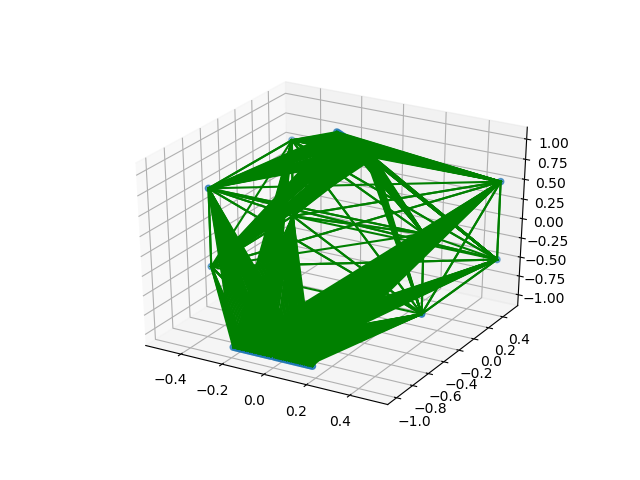
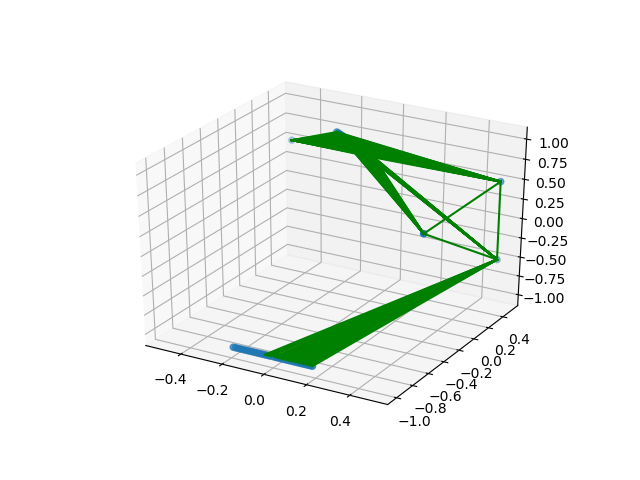
ready to trade live, with continuous evolution

Changed region(s): [[0.3125, 0.2812, 0.7812, 0.75]]

diff --git a/brain_trader.py b/brain_trader.py
@@ -26,15 +26,14 @@ from pureples.es_hyperneat.es_hyperneat_torch import ESNetwork
 key = ""
 secret = ""
 class LiveTrader:
-    params = {"initial_depth": 3,
-            "max_depth": 6,
-            "variance_threshold": 0.013,
-            "band_threshold": 0.013,
+    params = {"initial_depth": 2,
+            "max_depth": 4,
+            "variance_threshold": 0.0000013,
+            "band_threshold": 0.0000013,
             "iteration_level": 3,
-            "division_threshold": 0.013,
+            "division_threshold": 0.0000013,
             "max_weight": 5.0,
             "activation": "tanh"}
-
 
     # Config for CPPN.
     config = neat.config.Config(neat.genome.DefaultGenome, neat.reproduction.DefaultReproduction,
@@ -45,17 +44,26 @@ class LiveTrader:
         self.target_percent = target_percent
         self.ticker_len = ticker_len
         self.end_ts = datetime.now()+timedelta(seconds=(ticker_len*55))
-        file = open("es_trade_god_cppn_5day.pkl",'rb')
-        self.cppn = pickle.load(file)
-        file.close()
+        self.load_net()
         self.tickers = self.polo.returnTicker()
         self.sellCoins()
         self.bal = self.polo.returnBalances()
         self.set_target()
-        self.inputs = self.hs.hist_shaped.shape[0]*(self.hs.hist_shaped[0].shape[1]-1)
+        self.refresh_data()
+        self.inputs = self.hs.hist_shaped.shape[0]*(self.hs.hist_shaped[0].shape[1])
         self.outputs = self.hs.hist_shaped.shape[0]
-        self.multiplier = self.inputs/self.outputs
+        self.make_shapes()
+        self.leaf_names = []
+        for l in range(len(self.in_shapes[0])):
+            self.leaf_names.append('leaf_one_'+str(l))
+            self.leaf_names.append('leaf_two_'+str(l))
 
+    def load_net(self):
+        file = open("perpetual_champion.pkl",'rb')
+        g = pickle.load(file)
+        file.close()
+        [the_cppn] = create_cppn(g, self.config, self.leaf_names, ['cppn_out'])
+        self.cppn = the_cppn
 
     def refresh_data(self):
         self.hs.pull_polo_live(10)
@@ -125,9 +133,16 @@ class LiveTrader:
         print("selling this shit: ", coin)
         return 
 
+
     def reset_tickers(self):
-        self.tickers = self.polo.returnTicker()
+        try:
+            self.tickers = self.polo.returnTicker()
+        except:
+            time.sleep(360)
+            self.reset_tickers()
         return 
+
+
     def get_price(self, coin):
         return self.tickers[coin]['last']
     
@@ -233,7 +248,11 @@ class PaperTrader:
                 self.in_shapes.append((0.0+(sign*.01*ix2), 0.0-(sign*.01*ix2), 1.0))
         
     def reset_tickers(self):
-        self.tickers = self.polo.returnTicker()
+        try:
+            self.tickers = self.polo.returnTicker()
+        except:
+            time.sleep(360)
+            self.reset_tickers()
         return 
     def get_price(self, coin):
         return self.tickers[coin]['last']

diff --git a/trading_purples.py b/trading_purples.py
@@ -128,7 +128,7 @@ class PurpleTrader:
         return self.evaluate(network) >= self.highest_returns
 
     def trial_run(self):
-        r_start = self.hd
+        r_start = 0
         file = open("es_trade_god_cppn_3d.pkl",'rb')
         [cppn] = pickle.load(file)
         network = ESNetwork(self.subStrate, cppn, self.params)
@@ -148,7 +148,7 @@ class PurpleTrader:
             if(g.fitness > fitter_val):
                 fitter = g
                 fitter_val = g.fitness
-        with open('perpetual_champion.pkl', 'wb') as output:
+        with open('./champs/perpetual_champion_'+str(fitter.key)+'.pkl', 'wb') as output:
             pickle.dump(fitter, output)
         print("latest_saved")
 # Create the population and run the XOR task by providing the above fitness function.

diff --git a/crypto_evolution.py b/crypto_evolution.py
@@ -13,12 +13,13 @@ class CryptoFolio:
     target_amount = 0.1
     ledger = {}
     start = 0
-    def __init__(self, start_amount, coins):
+    def __init__(self, start_amount, coins, save_trades=False):
         self.ledger['BTC'] = start_amount
         for ix in coins:
             self.ledger[coins[ix]] = 0.0
         self.start = start_amount
         self.hs = hs.HistWorker()
+        self.save_trades = save_trades
 
 
     def buy_coin(self, c_name, price):

diff --git a/hist_service.py b/hist_service.py
@@ -174,10 +174,3 @@ class HistWorker:
             main = main.join(df_list[i])
         return main
         '''
-
-
-
-hs = HistWorker()
-hs.combine_live_frames()
-
-print(hs.currentHists['LTC']['date'][0], hs.currentHists['LTC']['date'][len(hs.currentHists['LTC']['date'])-1])
